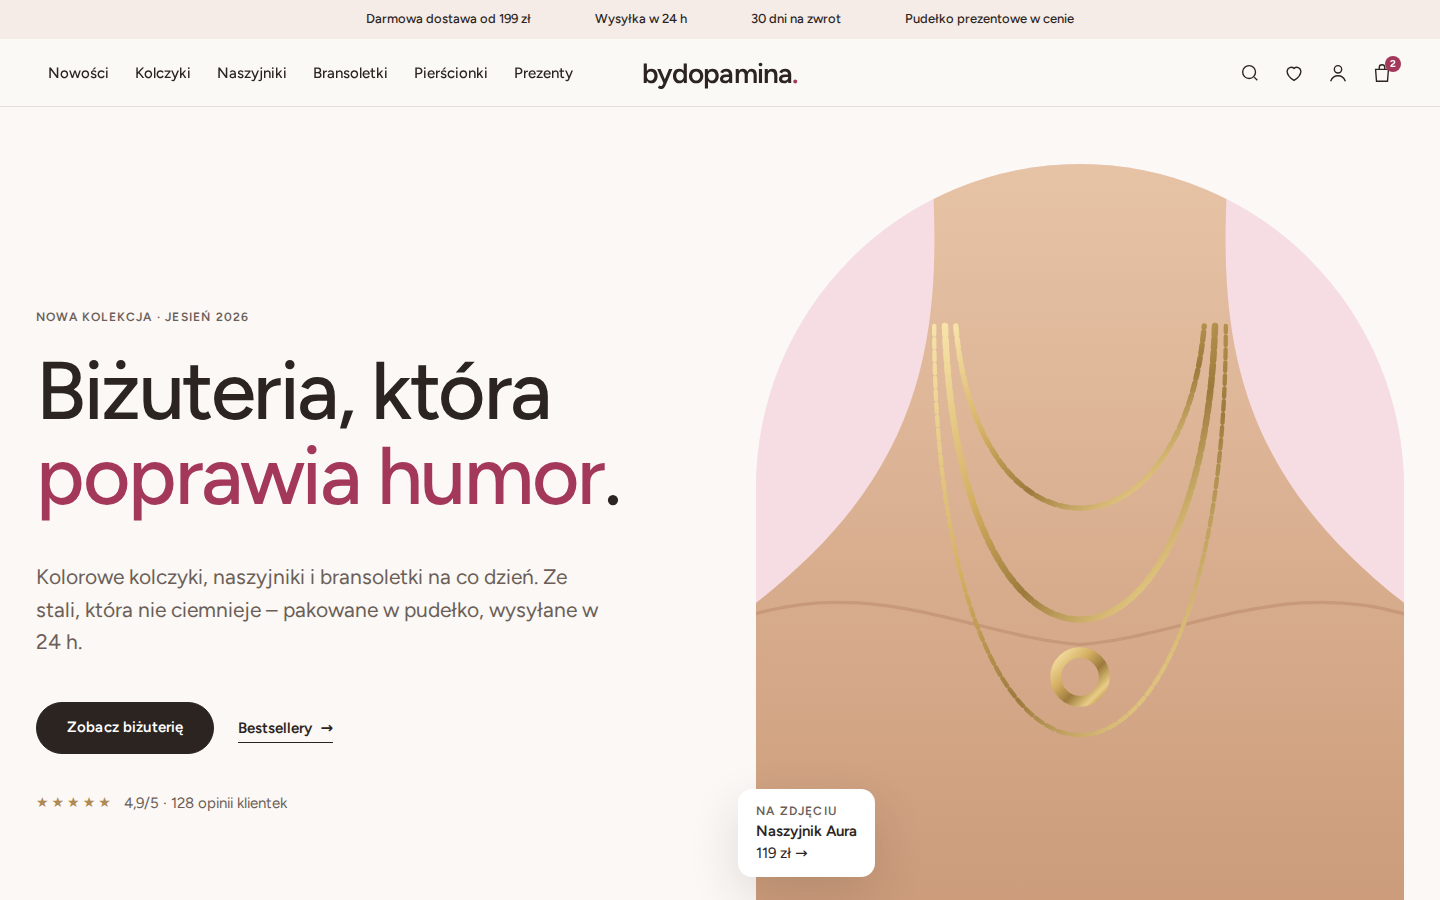
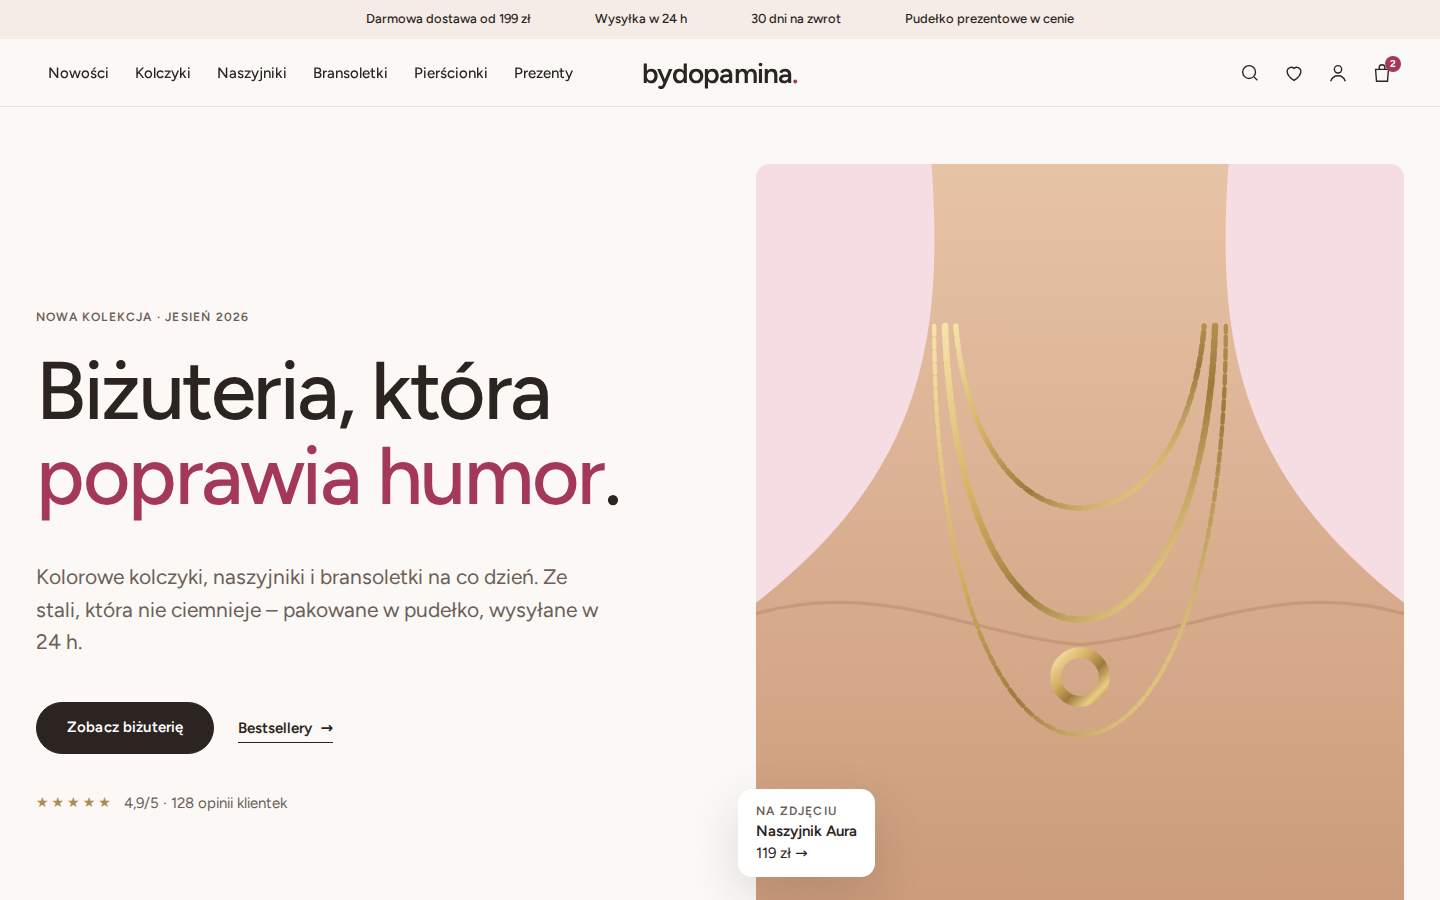
Replace arch shapes with simple rounded rectangles
Hero image, category tiles and mood cards now use the standard soft
radius instead of arch tops; mood card images are rounded rectangles.
Fix mobile hero image not filling the column width. Docs no longer
list the arch as a brand motif.

Claude-Session: https://claude.ai/code/session_016TyqexJfhrag3D4KD4Jo6H

Changed region(s): [[0.7812, 0.1556, 1.0, 0.4667], [0.5, 0.1556, 0.7188, 0.4667]]

diff --git a/bydopamina/theme/bydopamina-child/assets/css/main.css b/bydopamina/theme/bydopamina-child/assets/css/main.css
@@ -1,5 +1,5 @@
 /*
- * bydopamina – komponenty (v3: kobieco, jasno, czytelnie; łuk jako znak rozpoznawczy).
+ * bydopamina – komponenty (v3: kobieco, jasno, czytelnie).
  * Konwencja: klasy bd-* nadawane w Elementorze (Zaawansowane → Klasy CSS) albo generowane przez shortcody.
  * Spis: 1 baza · 2 typografia · 3 a11y · 4 przyciski · 5 header · 6 sekcje strony głównej · 7 nastroje
  *       8 karty produktów · 9 karta produktu i komplet · 10 koszyk/checkout/mini-koszyk · 11 dialog · 12 stopka
@@ -145,7 +145,7 @@ p { text-wrap: pretty; }
 .bd-sechead > * { width: auto !important; }
 .bd-sechead p { margin: 6px 0 0; color: var(--bd-ink-2); max-width: 52ch; }
 
-/* Hero: tekst + zdjęcie w łuku */
+/* Hero: tekst + duże zdjęcie */
 .bd-hero { padding-top: clamp(24px, 4vw, 64px); padding-bottom: clamp(32px, 4vw, 72px); }
 .bd-hero__grid { display: grid !important; grid-template-columns: minmax(0, 1fr) minmax(0, 1fr); gap: clamp(28px, 5vw, 96px); align-items: center; }
 .bd-hero__grid > * { width: auto !important; }
@@ -177,7 +177,7 @@ p { text-wrap: pretty; }
 .bd-features--list { grid-template-columns: 1fr 1fr; gap: 8px; }
 .bd-features--list li { background: var(--bd-surface-2); padding: 14px 16px; }
 
-/* Kategorie w łukach */
+/* Kafelki kategorii */
 .bd-arches ul { display: grid; grid-template-columns: repeat(auto-fit, minmax(140px, 1fr)); gap: var(--bd-grid-gap); margin: 0; padding: 0; list-style: none; }
 .bd-arches a { display: grid; gap: 12px; justify-items: center; text-decoration: none; }
 .bd-arches__img { display: block; width: 100%; aspect-ratio: 3 / 4; overflow: hidden; border-radius: var(--bd-radius-arch); background: var(--bd-surface-2); }
@@ -282,8 +282,8 @@ p { text-wrap: pretty; }
 	text-decoration: none; overflow: hidden; transition: transform var(--bd-dur) var(--bd-ease), box-shadow var(--bd-dur);
 }
 .bd-mood a:hover, .bd-mood a:focus-visible { transform: translateY(-4px); box-shadow: var(--bd-shadow-pop); }
-.bd-mood__img { position: absolute; inset: 0 0 38% 0; display: grid; place-items: center; }
-.bd-mood__img img, .bd-mood__img .bd-ph { width: 72%; aspect-ratio: 1; object-fit: cover; border-radius: 50%; background: rgb(255 255 255 / 0.5); }
+.bd-mood__img { position: absolute; inset: 12px 12px 40% 12px; }
+.bd-mood__img img, .bd-mood__img .bd-ph { width: 100% !important; height: 100% !important; aspect-ratio: auto !important; object-fit: cover; border-radius: var(--bd-radius-sm); background: rgb(255 255 255 / 0.55) !important; }
 .bd-mood__name { position: relative; font-size: var(--bd-fs-lg); font-weight: 600; line-height: 1.15; }
 .bd-mood__hint { position: relative; font-size: var(--bd-fs-xs); color: var(--bd-ink-2); }
 .bd-mood__dots { position: relative; display: flex; gap: 4px; margin-top: 4px; }
@@ -528,7 +528,7 @@ p { text-wrap: pretty; }
 .bd-mnav { display: none; }
 @media (max-width: 1024px) {
 	.bd-hero__grid { grid-template-columns: 1fr; }
-	.bd-hero__media { max-width: 560px; width: 100%; justify-self: center; }
+	.bd-hero__media { max-width: 560px; width: 100% !important; justify-self: center; }
 	.bd-arches ul { grid-template-columns: none; grid-auto-flow: column; grid-auto-columns: 30%; overflow-x: auto; scroll-snap-type: x mandatory; scrollbar-width: none; padding-bottom: 4px; }
 	.bd-arches ul::-webkit-scrollbar { display: none; }
 	.bd-arches li { scroll-snap-align: start; }
@@ -547,7 +547,7 @@ p { text-wrap: pretty; }
 	.bd-header-icons .bd-hide-mobile { display: none !important; }
 	.bd-hero__tag { left: 10px; bottom: 10px; padding: 10px 14px; }
 	.bd-hero__media { order: -1; }
-	.bd-hero__media .bd-arch img, .bd-hero__media .bd-arch .bd-ph { aspect-ratio: 1 / 1; }
+	.bd-hero__media .bd-arch img, .bd-hero__media .bd-arch .bd-ph { aspect-ratio: 1 / 1 !important; }
 	.bd-hero__text { gap: 16px; }
 	.bd-arches ul { grid-auto-columns: 40%; }
 	.bd-moods ul { grid-auto-columns: 46%; }

diff --git a/bydopamina/theme/bydopamina-child/assets/css/tokens.css b/bydopamina/theme/bydopamina-child/assets/css/tokens.css
@@ -5,7 +5,7 @@
  * Zasady:
  *  – biżuteria jest kolorowa, więc strona jest stonowana: porcelanowa biel, pudrowy róż, ciepła czerń;
  *  – jeden krój: Figtree – prosty, bardzo czytelny, miękki (kobiecy, ale nie „słodki”);
- *  – wyróżnik marki: ŁUK (zdjęcie hero, kategorie, karty nastrojów) + „Dobierz biżuterię do nastroju”;
+ *  – wyróżnik marki: „Jak chcesz się dziś poczuć?” (biżuteria wg nastroju) + malinowa kropka w logo;
  *  – kolory nastrojów (--bd-tint-*) tylko jako delikatne tła pod zdjęcia/karty, nigdy jako tekst;
  *  – malina = akcent: promocje, licznik koszyka, hover przycisku. Oszczędnie.
  */
@@ -63,7 +63,7 @@
 	--bd-radius: 14px;
 	--bd-radius-sm: 10px;
 	--bd-radius-pill: 999px;
-	--bd-radius-arch: 999px 999px 14px 14px;                    /* łuk – znak rozpoznawczy */
+	--bd-radius-arch: var(--bd-radius);                          /* zdjęcia i karty: zwykłe, lekko zaokrąglone prostokąty */
 	--bd-ease: cubic-bezier(0.22, 1, 0.36, 1);
 	--bd-ease-out: cubic-bezier(0.16, 1, 0.3, 1);
 	--bd-dur: 240ms;

diff --git a/bydopamina/theme/bydopamina-child/inc/shortcodes.php b/bydopamina/theme/bydopamina-child/inc/shortcodes.php
@@ -4,7 +4,7 @@
  *
  *  [bd_usp variant="row|list"]            4 argumenty: darmowa dostawa, nie ciemnieje, zwroty, pudełko
  *  [bd_trust_badges]                      dostawa, zwroty, pudełko prezentowe, płatności
- *  [bd_category_arches]                   kategorie w łukach (przewijane na mobile)
+ *  [bd_category_arches]                   kafelki kategorii (przewijane na mobile)
  *  [bd_product_tabs limit="8"]            zakładki: Bestsellery / Nowości / Promocje
  *  [bd_shop_the_look image="ID" products="ID:x:y,ID:x:y"]   zdjęcie z punktami produktów (x, y w %)
  *  [bd_reviews limit="10"]                prawdziwe opinie z WooCommerce (4–5★, zweryfikowane zakupy)

diff --git a/bydopamina/tools/build_templates.py b/bydopamina/tools/build_templates.py
@@ -6,7 +6,7 @@ Uruchom:  python3 tools/build_templates.py
 Import:   WordPress → Szablony → Kreator motywu / Zapisane szablony → „Importuj szablony”.
 
 Kierunek: editorial jewelry 2026/27 – asymetryczna siatka, szeryf Instrument Serif + Geist/Geist Mono,
-numerowane nagłówki sekcji, łuki kategorii, „shop the look”, prawdziwe opinie, rozmiarówka.
+numerowane nagłówki sekcji, kafelki kategorii, nastroje, „shop the look”, prawdziwe opinie, rozmiarówka.
 Wygląd pochodzi z klas bd-* motywu potomnego, więc szablony są lekkie, a marka żyje w tokens.css.
 """
 import json

diff --git a/bydopamina/docs/ARCHITEKTURA-UX.md b/bydopamina/docs/ARCHITEKTURA-UX.md
@@ -4,7 +4,7 @@
 
 1. **Stonowana strona, kolorowa biżuteria.** Porcelanowa biel, pudrowy róż, ciepła czerń. Kolor pokazują zdjęcia
    produktów i pastelowe tła nastrojów – interfejs nie konkuruje z biżuterią.
-2. **Kobieco, ale nie „słodko”.** Miękkie zaokrąglenia, przyciski-pigułki, łuki, dużo powietrza. Bez brokatu i ozdobników.
+2. **Kobieco, ale nie „słodko”.** Miękkie zaokrąglenia, przyciski-pigułki, dużo powietrza. Bez brokatu i ozdobników.
 3. **Jeden czytelny krój.** *Figtree*, tekst 17 px, nagłówki 500. Zero kroju ozdobnego – czytelność na telefonie jest ważniejsza.
 4. **Najkrótsza droga do koszyka.** Każdy ekran ma jedną główną akcję (czarna pigułka). „+” na karcie produktu
    dodaje do koszyka bez wchodzenia w produkt.
@@ -17,7 +17,6 @@
 
 | Wyróżnik | Gdzie | Dlaczego |
 |---|---|---|
-| **Łuk** | zdjęcie w hero, kategorie, karty nastrojów | rozpoznawalny kształt (jak gablota jubilera), spójny w całym sklepie, a przy tym prosty |
 | **„Jak chcesz się dziś poczuć?”** | strona główna | nazwa *dopamina* → biżuteria dobierana do nastroju. Radość (złoto, żółć), Energia (koral), Czułość (róż, perła), Spokój (turkus, mięta), Marzenia (lila), Świeżość (zieleń). Klientka wybiera emocję zamiast przeglądać kategorie – szczególnie przy kolorowej ofercie |
 | **Logo z malinową kropką** `bydopamina.` | header + wielki napis w stopce | minimalny znak, łatwy do powtórzenia na opakowaniach i w social media |
 | **Słowo-klucz w malinie** | nagłówki („Biżuteria, która **poprawia humor**”) | jeden akcent koloru w typografii zamiast grafik |
@@ -42,11 +41,11 @@ Przy 50 produktach nie ma sensu rozbudowane menu z podkategoriami – kategorie 
 
 | # | Sekcja | Cel | Decyzja UX |
 |---|---|---|---|
-| 1 | **Hero**: tekst + zdjęcie w łuku, pływająca etykieta „Na zdjęciu: produkt, cena →” | 3 s na zrozumienie oferty | 1 główny przycisk „Zobacz biżuterię” + link „Bestsellery”; ocena z prawdziwych opinii; na telefonie zdjęcie nad tekstem |
+| 1 | **Hero**: tekst + duże zdjęcie (zaokrąglone rogi), pływająca etykieta „Na zdjęciu: produkt, cena →” | 3 s na zrozumienie oferty | 1 główny przycisk „Zobacz biżuterię” + link „Bestsellery”; ocena z prawdziwych opinii; na telefonie zdjęcie nad tekstem |
 | 2 | **4 argumenty** (białe karty) | usunąć obawy | darmowa dostawa, nie ciemnieje, 30 dni na zwrot, pudełko |
-| 3 | **Kategorie w łukach** | nawigacja kciukiem | 5–6 kategorii, na telefonie przewijane |
+| 3 | **Kafelki kategorii** | nawigacja kciukiem | 5–6 kategorii, na telefonie przewijane |
 | 4 | **Najczęściej wybierane** (zakładki Bestsellery / Nowości / Promocje) | szybki zakup | „+” na karcie = do koszyka bez przeładowania; kropki kolorów wariantów |
-| 5 | **Jak chcesz się dziś poczuć?** | wyróżnik + wybór z kolorowej oferty | 6 kart-łuków w pastelach; nastrój bez produktów się ukrywa |
+| 5 | **Jak chcesz się dziś poczuć?** | wyróżnik + wybór z kolorowej oferty | 6 kart w pastelach; nastrój bez produktów się ukrywa |
 | 6 | **Noś razem** (shop the look) | wyższa wartość koszyka | punkty na zdjęciu ↔ lista produktów |
 | 7 | **Szukasz prezentu?** | ruch prezentowy | budżet do 79 / 129 / 199 zł + informacja o pakowaniu |
 | 8 | **Opinie klientek** | dowód społeczny | tylko zweryfikowane zakupy, średnia liczona automatycznie |
